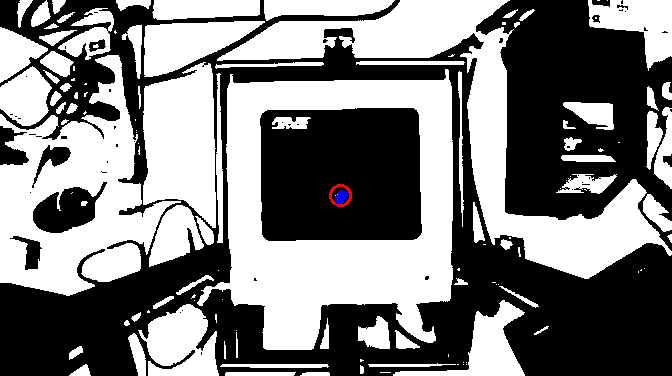
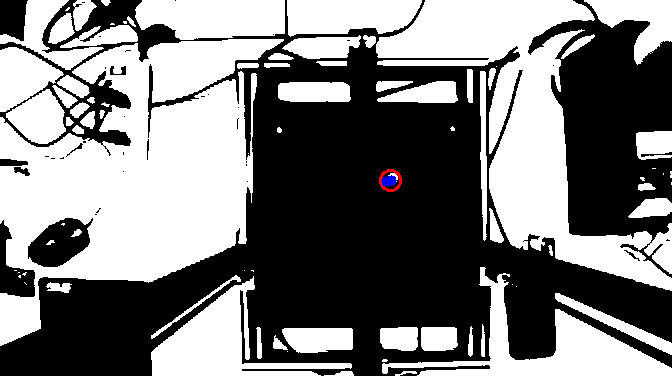
Added sensor track

diff --git a/APST_GUI.py b/APST_GUI.py
@@ -704,11 +704,11 @@ def show_frames():
                 #                 #     cv2.circle(img, (guanx - shift_x, guany - shift_y), 5, (255,0,0), cv2.FILLED)
                 #                 #     cv2.circle(img, (chix - shift_x, chiy - shift_y), 5, (255,0,0), cv2.FILLED)
                 #                 mpDraw.draw_landmarks(img, handLms, mpHands.HAND_CONNECTIONS, handLmsStyle, handConStyle)
-            circle_pos_w = int(imgWidth/2 + 4) 
-            circle_pos_h = int(imgHeight/2 + 7)
+            circle_pos_w = int(imgWidth/2 + 4) + 50
+            circle_pos_h = int(imgHeight/2 + 7) -15
 
             circle_radius = 10
-            cv2.circle(img, (circle_pos_w,circle_pos_h), circle_radius, (0,0,255), 2)
+            cv2.circle(img, (circle_pos_w ,circle_pos_h), circle_radius, (0,0,255), 2)
             # if N1 == 20:
             #     move = filled_circle(imgWidth, imgHeight, circle_pos_w, circle_pos_h, circle_radius, img)
             #     if not move: 
@@ -768,8 +768,8 @@ def select_point(img):
     is_on = True
     cv2.circle(img, (clicked_X,clicked_Y), 5, (255,0,0), cv2.FILLED)
     cv2.imwrite("MARKED.png", img)
-    mid_x = int(img.shape[1]/2 + 4) 
-    mid_y = int(img.shape[0]/2 + 7)
+    mid_x = int(img.shape[1]/2 + 4) + 50
+    mid_y = int(img.shape[0]/2 + 7) -15
     move_to_distance(mid_x, mid_y, clicked_X, clicked_Y)
 
     
@@ -845,6 +845,14 @@ def stop_frame():
 def move_to_distance(x1,y1,x2,y2):
     move_x = abs(x1-x2) 
     move_y = abs(y1-y2) 
+
+    add_x = int(round(float((move_x+20)/10)))
+    move_x+=add_x
+
+    add_y = int(round(float((move_y+20)/10)))
+    move_y+=add_y
+
+
 
     if x1>x2:
         if y1<y2: #DOWN
